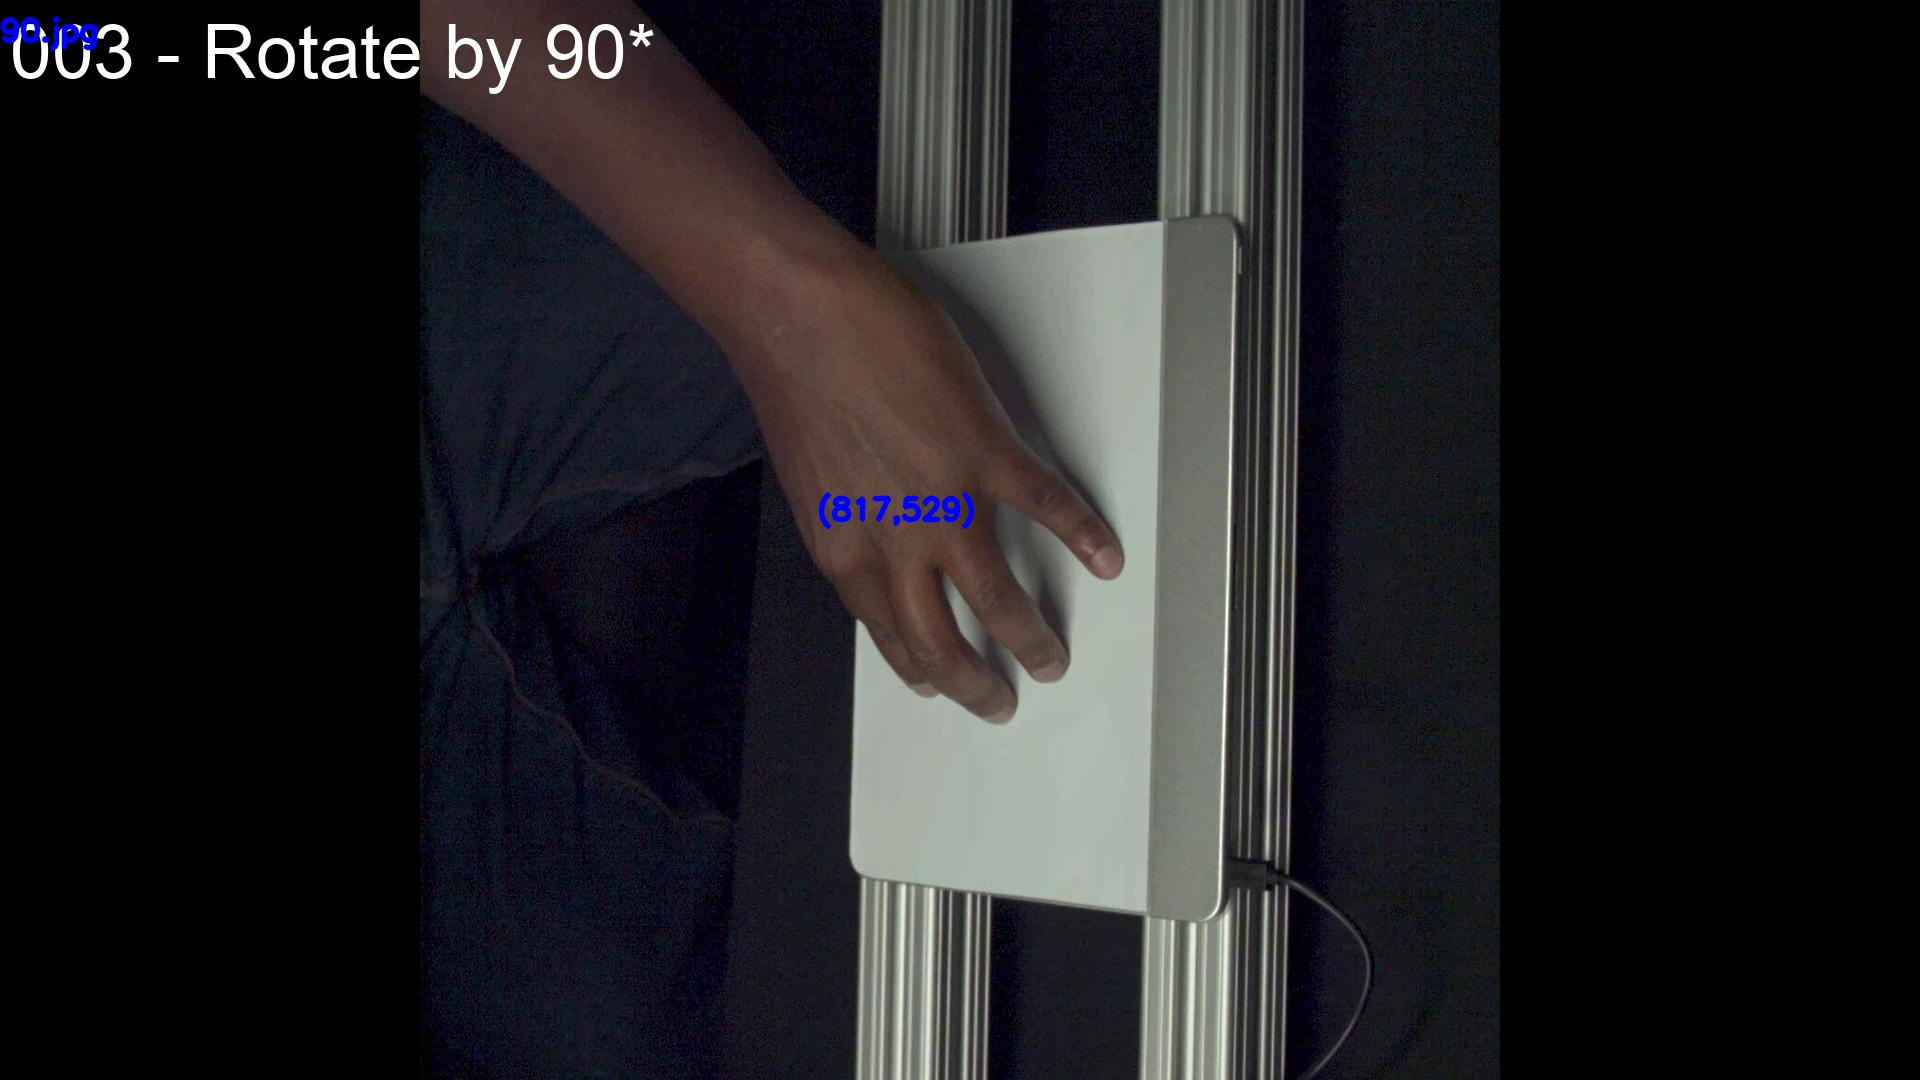
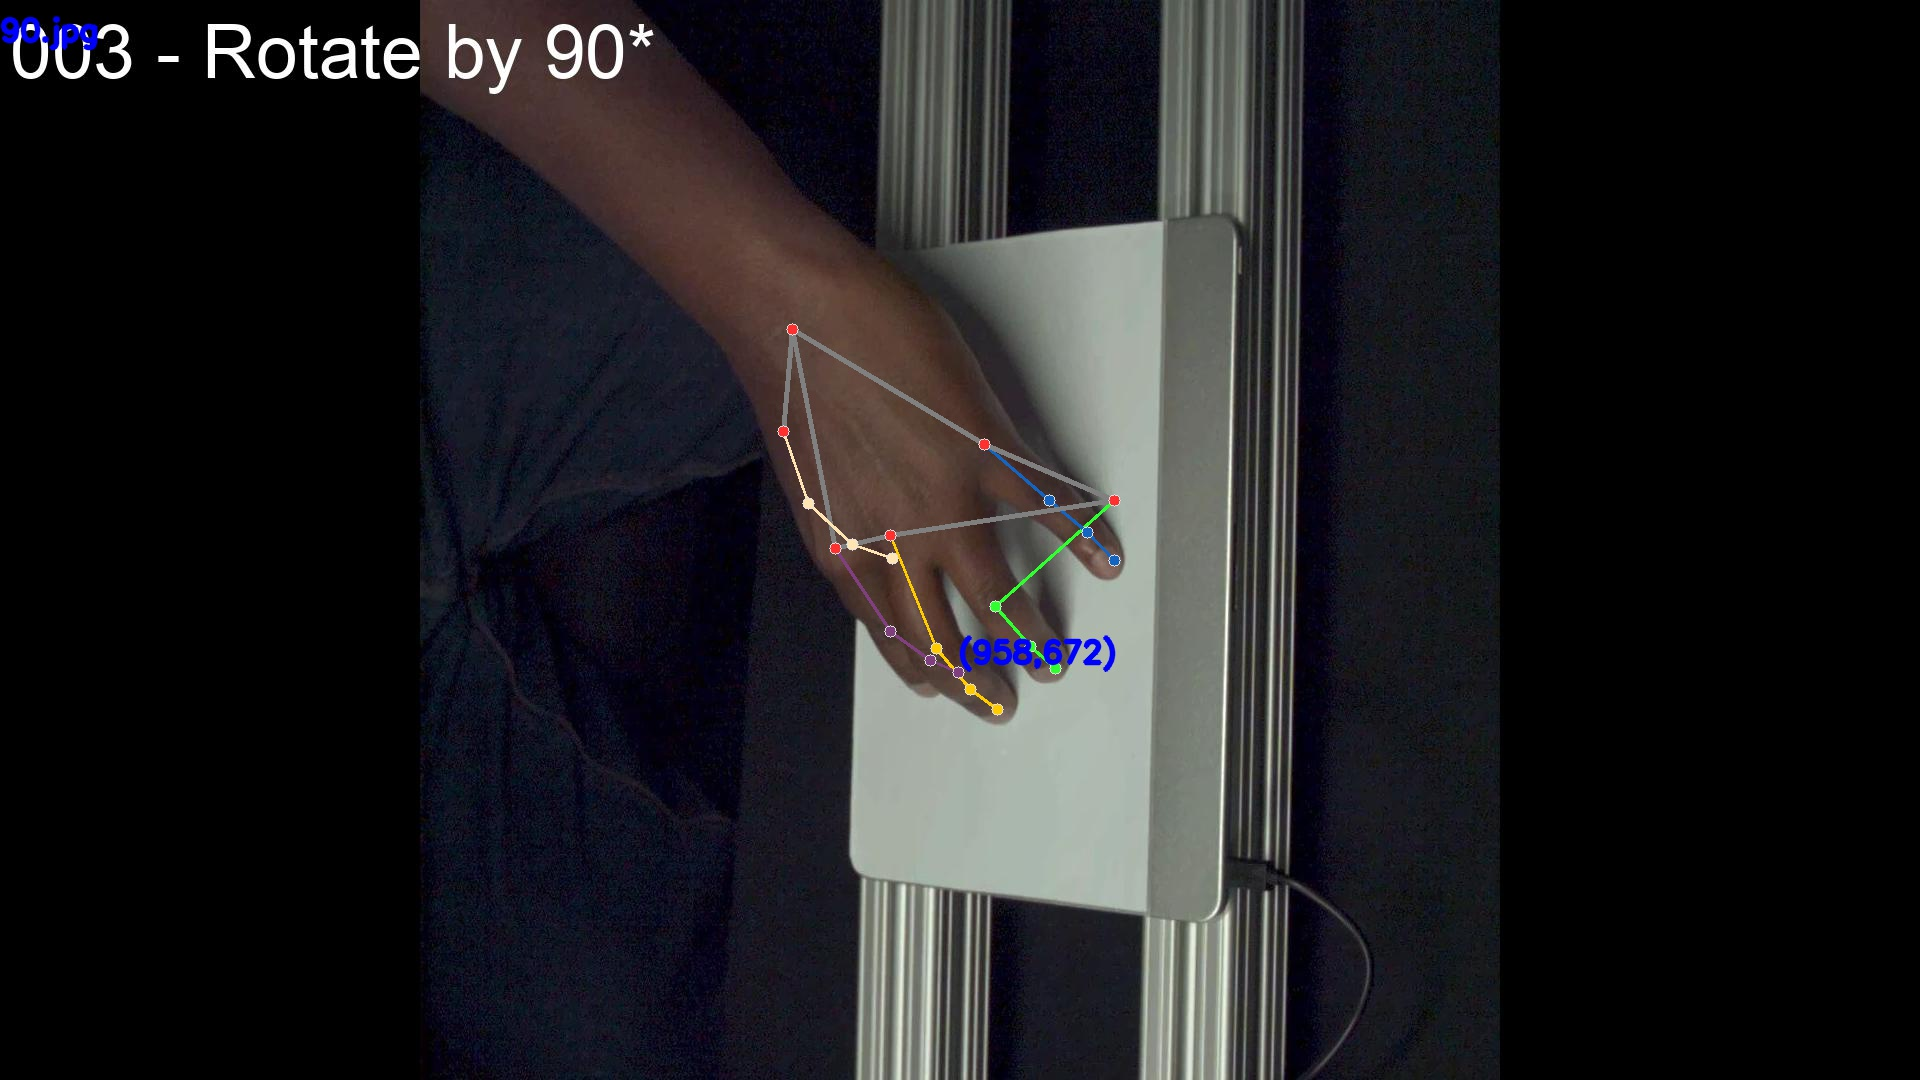
all images stacked

diff --git a/MediaPipe.py b/MediaPipe.py
@@ -35,9 +35,9 @@ thickness = 3
 resultsArray = []
 
 makeFolder("allEditsStitched")
-l = 0
+#l = 0
 for imgGroup in allImagesPathGrouped:
-    count = 0
+    count = 1
     cleanImgPath = os.path.split(imgGroup[0])[1][0:3] + ".jpg"
     imgEditsAll = cv2.flip(cv2.imread("random_images/" + cleanImgPath), 1)
 
@@ -61,7 +61,7 @@ for imgGroup in allImagesPathGrouped:
             # Print handedness and draw hand landmarks on the image.
             # print('Handedness:', results.multi_handedness)
             if not results.multi_hand_landmarks:
-                print(f"\t{count} - Failed in {file}")
+                print(f"\t{count} - Failed in {augmentType}")
                 cv2.imwrite(resultingPath, cv2.imread(file))
                 count+=1
                 continue
@@ -73,12 +73,14 @@ for imgGroup in allImagesPathGrouped:
                     dictLandmark = MessageToDict(hand_landmarks)
                     print("\tChanged------------" + augmentType + "-------")
                     #print(file)
-                    print(dictLandmark['landmark'][0])
+                    #print(dictLandmark['landmark'][0])
+                    ct = 0
                     for point in dictLandmark['landmark']:
-                        point['x'], point['y'] = changePoint(augmentType, point['x'], point['y'], normalized=True)
-                    print(dictLandmark['landmark'][0])
+                        hand_landmarks.landmark[count].x, hand_landmarks.landmark[count].x = changePoint(augmentType, point['x'], point['y'], normalized=True)
+                        ct+=1
+                    #print(dictLandmark['landmark'][0])
                     #break
-                    printhand_landmarks.landmark
+                    #print(hand_landmarks.landmark[0].x)
 
                 #print(
                 #    f'Index finger tip coordinates: (',
@@ -98,6 +100,7 @@ for imgGroup in allImagesPathGrouped:
                     mp_hands.HAND_CONNECTIONS,
                     mp_drawing_styles.get_default_hand_landmarks_style(),
                     mp_drawing_styles.get_default_hand_connections_style())
+                
                 count+=1
                 print(f"\t{count} - Got it for {augmentType}")
 
@@ -117,6 +120,7 @@ for imgGroup in allImagesPathGrouped:
                         font, fontScale, color, thickness, cv2.LINE_AA)
             cv2.putText(annotated_image, str(file[-6:]), (0,40), font, fontScale, color, thickness, cv2.LINE_AA)
             
+            cv2.putText(imgEditsAll, augmentType, (xTipP, yTipP), font, fontScale, color, thickness, cv2.LINE_AA)
             
             cv2.imwrite(resultingPath, annotated_image)
 
@@ -140,10 +144,10 @@ for imgGroup in allImagesPathGrouped:
     print("The file changed!")
     #pprint(tipFingerNumbers)
     resultsArray.append(tipFingerNumbers)
-    print(count)
-    if l == 2:
-        break
-    l += 1
+    print(f"{count} Different drawings on the image")
+    #if l == 2:
+    #    break
+    #l += 1
 
 with open("tipFingerPoint.pkl", "wb") as f:
-    pickle.dump(resultsArray)
+    f.dump(resultsArray)
